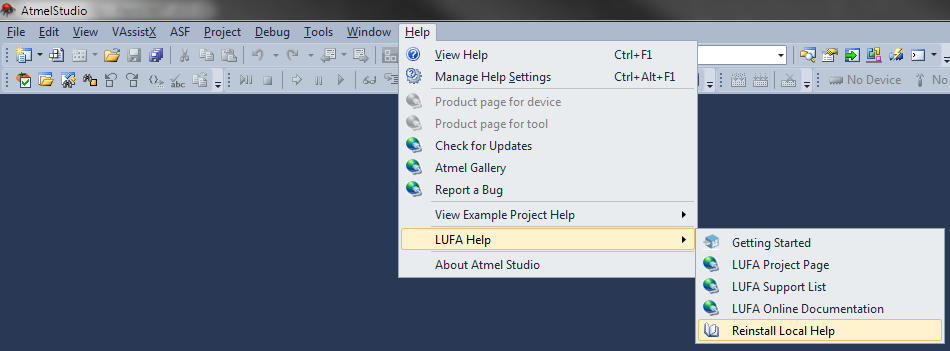
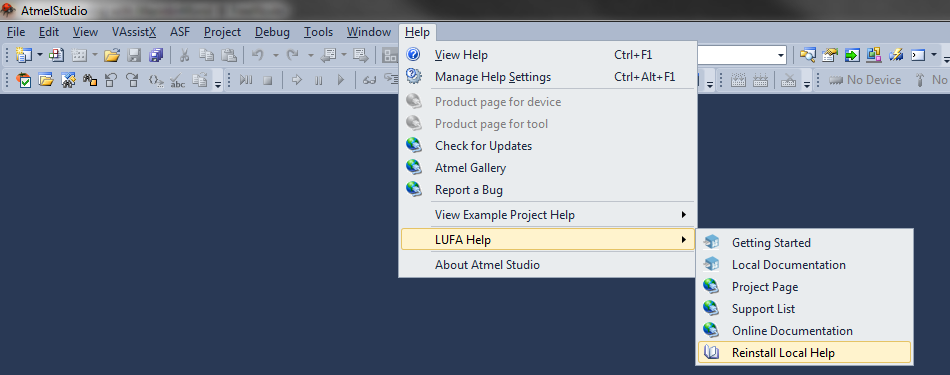
Update Atmel Studio getting started page and associated images.

Changed region(s): [[0.0, 0.0, 1.0, 0.9972]]

diff --git a/LUFA/StudioIntegration/VSIX/GettingStarted.htm b/LUFA/StudioIntegration/VSIX/GettingStarted.htm
@@ -43,7 +43,7 @@
 
 			#header span
 			{
-				color: #998
+				color: #998;
 			}
 
 			#footer
@@ -107,7 +107,7 @@
 	<body>
 		<div id="container">
 			<div id="header">
-				<h1>Thanks for installing <span>LUFA</span></h1>
+				<h1>Thanks for using <span>LUFA</span></h1>
 			</div>
 
 			<div id="content">

diff --git a/LUFA/Drivers/Board/LEDs.h b/LUFA/Drivers/Board/LEDs.h
@@ -76,7 +76,7 @@
  *  \code
  *      // Initialize the board LED driver before first use
  *      LEDs_Init();
- *      
+ *
  *      // Turn on each of the four LEDs in turn
  *      LEDs_SetAllLEDs(LEDS_LED1);
  *      Delay_MS(500);
@@ -86,11 +86,11 @@
  *      Delay_MS(500);
  *      LEDs_SetAllLEDs(LEDS_LED4);
  *      Delay_MS(500);
- *      
+ *
  *      // Turn on all LEDs
  *      LEDs_SetAllLEDs(LEDS_ALL_LEDS);
  *      Delay_MS(1000);
- *      
+ *
  *      // Turn on LED 1, turn off LED 2, leaving LEDs 3 and 4 in their current state
  *      LEDs_ChangeLEDs((LEDS_LED1 | LEDS_LED2), LEDS_LED1);
  *  \endcode
@@ -205,6 +205,14 @@
 
 	/* Preprocessor Checks: */
 		#if !defined(__DOXYGEN__)
+			#if !defined(LEDS_NO_LEDS)
+				#define LEDS_NO_LEDS   0
+			#endif
+
+			#if !defined(LEDS_ALL_LEDS)
+				#define LEDS_ALL_LEDS  (LEDS_LED1 | LEDS_LED2 | LEDS_LED3 | LEDS_LED4)
+			#endif
+
 			#if !defined(LEDS_LED1)
 				#define LEDS_LED1      0
 			#endif
